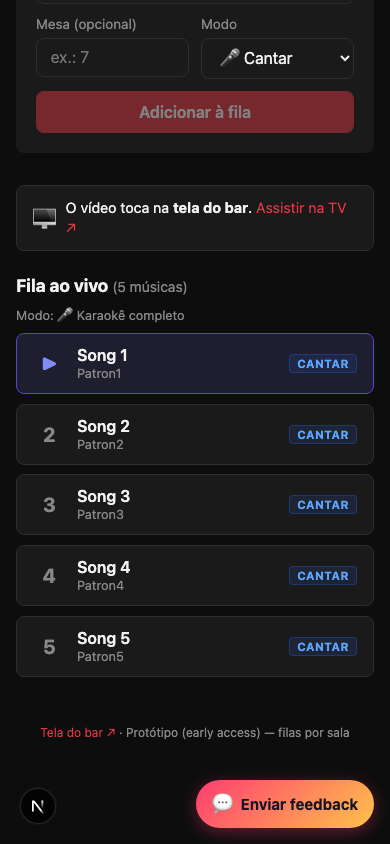
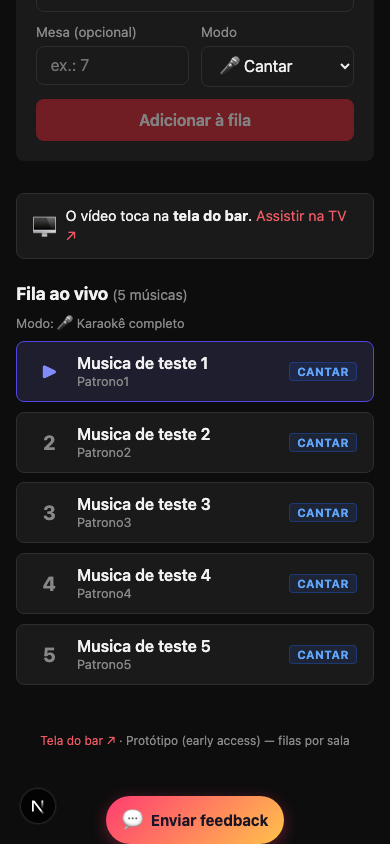
TICKET-71: address second-review findings (spacer order, dead token, stale evidence)
Second opus review (APPROVE-WITH-FOLLOWUPS) of the in-flow redesign found:

- F1 (MEDIUM, fixed): the safe-area spacer rendered BEFORE the fab in the
  DOM, so on mobile its gap landed above the pill instead of below it,
  missing its stated purpose (clearing the iPhone home-indicator). Moved the
  spacer to render immediately after the fab in FeedbackWidget.tsx; the
  safe-area e2e test now asserts the spacer's Y-position is below the fab's,
  not just its height, closing the coverage gap that let this ship.
- F2 (MEDIUM, deferred): app/metadata.ts lacks viewportFit:"cover", so
  env(safe-area-inset-*) is 0 in production. Out of this ticket's file
  boundary (shared, global file) — documented as a follow-up in the ticket
  doc, not fixed here.
- F3 (MEDIUM, product call, not fixed): discoverability tradeoff of the
  in-flow pill on long queues — documented in the ticket doc for the TL/PO.
- F4 (LOW, fixed): stale CSS comment describing the old DOM order; removed
  the now-dead --pill-gap custom property left from the refuted version's
  pill-footprint spacer math.
- F5 (LOW, fixed): recaptured all three work/evidence/TICKET-71/*.png —
  the committed screenshots predated the redesign and showed the refuted
  fixed-pill-plus-nudge version, not the current in-flow one.

Full verification after these changes: npm test 683/683, tsc --noEmit zero
new errors, npm run build succeeds, full e2e suite 73/73 passed (PORT=3183,
foreground).

diff --git a/components/feedback/FeedbackWidget.module.css b/components/feedback/FeedbackWidget.module.css
@@ -18,11 +18,13 @@
   --c-text: #f7f3fc;
   --c-text-muted: #a79bc0;
   --g-stage: linear-gradient(135deg, #ff3d71, #ffc24b);
-  /* Pill footprint, shared by the fab's own offset and the reserved-space
-     spacer below (TICKET-71) so the two numbers can never drift apart. */
+  /* Pill footprint (TICKET-71): the fab's own fixed-position offset/size on
+     desktop. (A third token, --pill-gap, existed here for the mobile
+     pill-footprint reserved-space calc from an earlier, since-refuted
+     version of this fix — removed as dead once the mobile pill stopped
+     being `position: fixed` and stopped needing that reservation.) */
   --pill-offset: 16px;
   --pill-size: 48px;
-  --pill-gap: 16px;
   font-family:
     -apple-system, BlinkMacSystemFont, "Segoe UI", Roboto, "Helvetica Neue",
     Arial, sans-serif;
@@ -51,7 +53,8 @@
  * construction, and needs no reserved space to avoid one. What's left here
  * is only a courtesy: `env(safe-area-inset-bottom)` so the in-flow pill
  * (now real, normal-flow content) isn't flush against an iPhone's
- * home-indicator.
+ * home-indicator — which requires this spacer to render AFTER the fab in
+ * the DOM (see the .tsx), so the gap lands below the pill, not above it.
  */
 .spacer {
   display: none;
@@ -94,12 +97,13 @@
   transform: translateY(0);
 }
 /*
- * Mobile (TICKET-71): NOT fixed. Rendered in normal document flow, as the
- * last thing on the page (after `{children}`, before the safe-area-only
- * spacer above) — so it can never float over a queue row at any scroll
- * position. See the long comment on `.spacer` above and the doc comment on
- * `FeedbackWidget` in the .tsx for the full "why" (a fixed overlay over an
- * arbitrarily tall list is structurally unfixable by padding or nudging).
+ * Mobile (TICKET-71): NOT fixed. Rendered in normal document flow, right
+ * after `{children}` (before the safe-area-only spacer, which the .tsx
+ * renders immediately after the fab so its gap lands below the pill) — so
+ * it can never float over a queue row at any scroll position. See the long
+ * comment on `.spacer` above and the doc comment on `FeedbackWidget` in the
+ * .tsx for the full "why" (a fixed overlay over an arbitrarily tall list is
+ * structurally unfixable by padding or nudging).
  */
 @media (max-width: 700px) {
   .fab {

diff --git a/components/FeedbackWidget.tsx b/components/FeedbackWidget.tsx
@@ -71,16 +71,6 @@ export function FeedbackWidget() {
 
   return (
     <div className={styles.root}>
-      {/*
-       * TICKET-71: reserved-space spacer. Meaningful on DESKTOP, where the
-       * fab stays `position: fixed` (see the CSS module) and this guarantees
-       * clearance after the true last row once fully scrolled. On mobile the
-       * fab itself is now in normal flow (no longer fixed), so this collapses
-       * to a small safe-area-only gap — see `.spacer` in the CSS module for
-       * the exact per-breakpoint sizing. Kept unconditional (not tied to
-       * `open`) so opening the sheet never shifts page layout.
-       */}
-      <div className={styles.spacer} data-testid="feedback-pill-spacer" aria-hidden="true" />
       {!open && (
         <button
           type="button"
@@ -94,6 +84,20 @@ export function FeedbackWidget() {
           {t("trigger")}
         </button>
       )}
+
+      {/*
+       * TICKET-71: reserved-space spacer. Meaningful on DESKTOP, where the
+       * fab stays `position: fixed` (see the CSS module) and this guarantees
+       * clearance after the true last row once fully scrolled. On mobile the
+       * fab itself is now in normal flow (no longer fixed), so this collapses
+       * to a small safe-area-only gap AFTER the pill — rendered here, right
+       * after the fab in the DOM (not before it), specifically so that gap
+       * lands BELOW the in-flow pill, clearing the iPhone home-indicator the
+       * way it's meant to, rather than as dead space above it. Kept
+       * unconditional (not tied to `open`) so opening the sheet never shifts
+       * page layout.
+       */}
+      <div className={styles.spacer} data-testid="feedback-pill-spacer" aria-hidden="true" />
 
       {open && (
         <div

diff --git a/e2e/feedback-widget-safe-area.spec.ts b/e2e/feedback-widget-safe-area.spec.ts
@@ -257,6 +257,19 @@ test.describe("feedback pill never covers queue content (TICKET-71)", () => {
     expect(spacerHeight).toBeGreaterThanOrEqual(34 - 1);
     expect(spacerHeight).toBeLessThan(60); // not the old ~114px pill-footprint reservation
 
+    // The gap must land BELOW the pill (clearing the home-indicator), not
+    // above it — a real defect the App Tester/Reviewer gate caught: an
+    // earlier commit rendered the spacer div BEFORE the fab in the DOM, so
+    // the safe-area gap appeared above the pill instead, achieving nothing
+    // for its stated purpose. Assert the actual relative position, not just
+    // the spacer's own height.
+    const fab = page.getByRole("button", { name: /enviar feedback/i });
+    const fabBox = await fab.boundingBox();
+    const spacerBox = await page.locator('[data-testid="feedback-pill-spacer"]').boundingBox();
+    expect(fabBox).not.toBeNull();
+    expect(spacerBox).not.toBeNull();
+    expect(spacerBox!.y).toBeGreaterThanOrEqual(fabBox!.y + fabBox!.height - 1);
+
     await page.evaluate(() => window.scrollTo(0, document.body.scrollHeight));
     await page.waitForTimeout(100);
     const allRows = await rows.all();

diff --git a/work/tickets/TICKET-71-mobile-feedback-pill-overlap.md b/work/tickets/TICKET-71-mobile-feedback-pill-overlap.md
@@ -49,3 +49,13 @@ Mounted once in `app/layout.tsx`, on every route except `/tv` and `/[room]/tv` (
 5. Desktop: zero dead space at the page bottom, AND the pill is still `position: fixed` there (desktop is unaffected by this ticket).
 
 **Teeth proven twice** — once for the refuted lift-based version, once for the current in-flow version: reverting `components/FeedbackWidget.tsx` + `FeedbackWidget.module.css` (keeping the branch's other changes) turns 4 of 5 tests red (title-overlap / spacer-height-out-of-range); test 5 (desktop) correctly still passes since desktop was never touched by either version of the fix.
+
+## Second Reviewer pass — findings addressed / deferred
+
+A second, independent opus review of the redesigned (in-flow) fix ran its own probe (35 rows, 21 scroll positions every 5%, checking title + badge + the whole row `<li>` = 2205 checks, 0 overlaps; same probe against `origin/main` found 68) and confirmed the geometric-guarantee claim directly (`getComputedStyle(fab).position === "static"` on mobile, not inferred from absence of overlap). Verdict: APPROVE-WITH-FOLLOWUPS. Findings:
+
+- **F1 (MEDIUM, fixed in this branch):** the spacer div was rendered *before* the fab in the DOM, so on mobile the safe-area gap landed above the pill, not below — its stated purpose (clear the iPhone home-indicator) wasn't achieved. Fixed by moving the spacer to render immediately after the fab; the safe-area test now also asserts the spacer's Y-position is below the fab's, not just its height (the exact gap the reviewer noted the old test couldn't catch).
+- **F2 (MEDIUM, deferred — out of file-scope boundary):** `app/metadata.ts` doesn't set `viewportFit: "cover"`, so `env(safe-area-inset-*)` resolves to `0` in production regardless of device notch. The safe-area test only demonstrates the CSS is wired correctly (via a CDP inset override), not that it's active in production today. `app/metadata.ts` is outside this ticket's file boundary (mounted globally, shared with every page) — flagged as a follow-up ticket, not fixed here.
+- **F3 (MEDIUM, product/TL call, not fixed):** discoverability. The in-flow mobile pill now sits at the true end of the page — on a busy-room queue (the reviewer's 35-row probe: ~2430px of scroll on a 3274px page) a guest has to scroll substantially to reach it. It is not hidden (178×48px, icon+label, confirmed tappable), but feedback volume in busy rooms will likely drop relative to the always-visible-but-buggy original. This is the conscious tradeoff of the geometric-guarantee fix — flagged for the TL/PO to weigh, not something a Dev pass should silently resolve either direction.
+- **F4 (LOW, fixed in this branch):** a stale code comment claimed the fab rendered "before the spacer above" (no longer true after the F1 fix); `--pill-gap` was a dead CSS custom property left over from the refuted version's pill-footprint spacer math. Comment corrected, dead token removed.
+- **F5 (LOW, fixed in this branch):** the three committed evidence PNGs predated the redesign and depicted the refuted fixed-pill-plus-nudge version. Recaptured against the current in-flow design.
